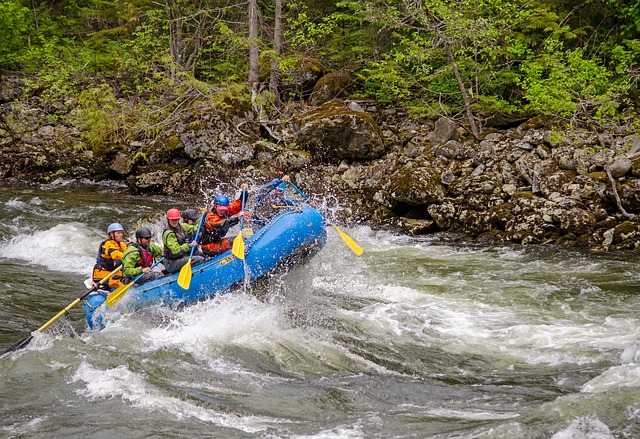
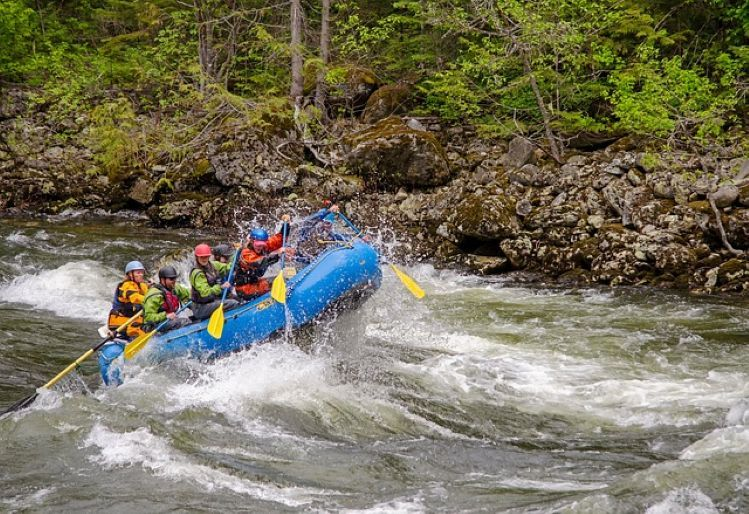
picture update

diff --git a/wwr/about.html b/wwr/about.html
@@ -58,7 +58,7 @@
         <section>
             <h2>Adventure Awaits You!</h2>
 
-            <div class="adventure gallery">
+            <div class="adventure-gallery">
                 <figure>
                     <img src="images/rafting1.jpg" alt="Rafting through water rapids">
                     <figcaption>Los Dientes del Diablo</figcaption>

diff --git a/wwr/styles/rafting.css b/wwr/styles/rafting.css
@@ -178,7 +178,7 @@ footer p {
 
 footer .socialmedia {
     display: flex;
-    justify-content: flex-start;
+    justify-content: flex-end;
     align-items: center;
     gap: 5px;
     margin: 5px 0 0 0;
